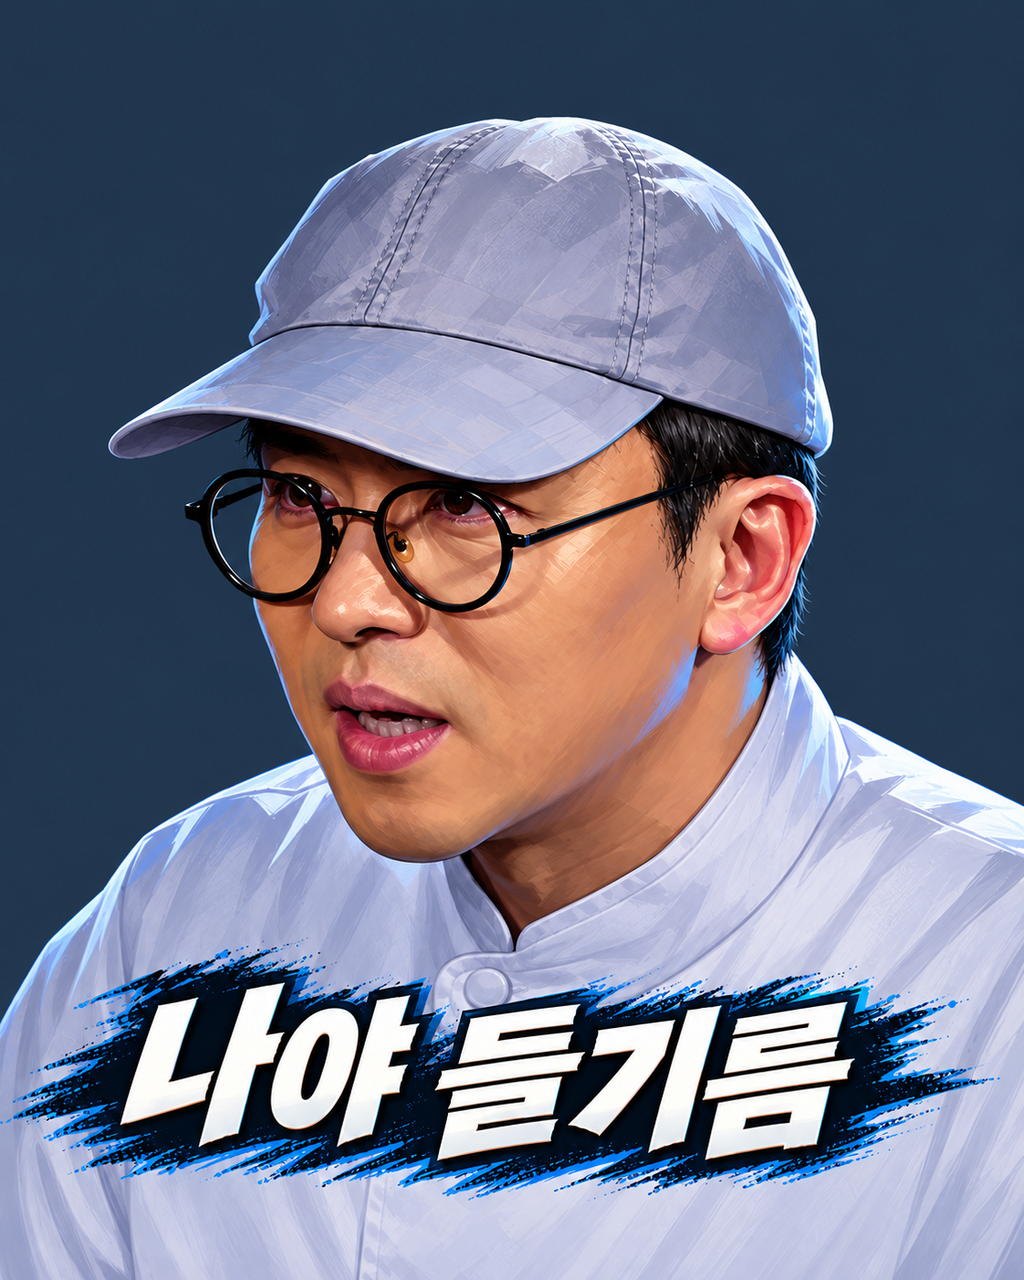
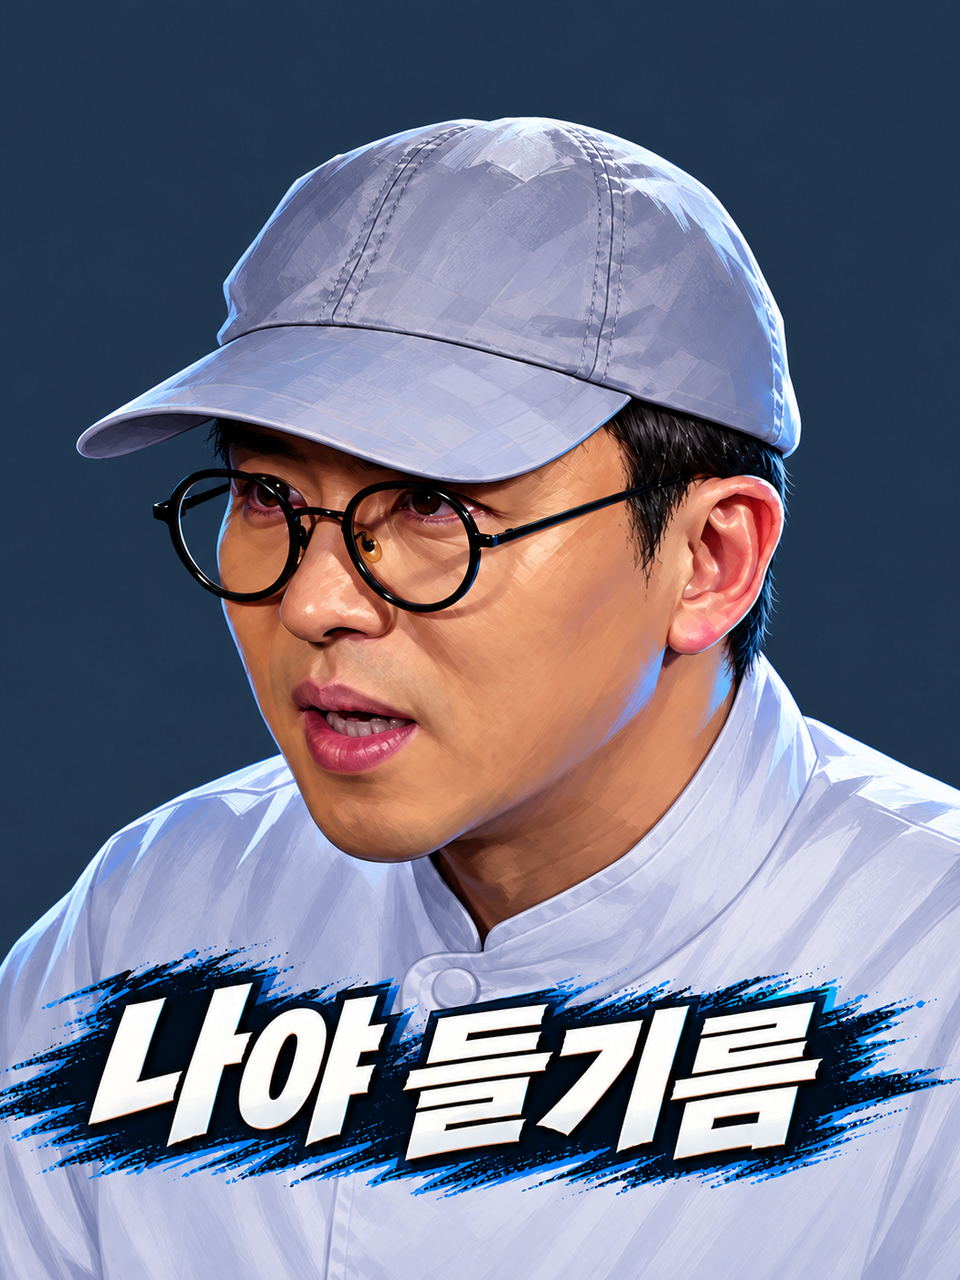
content(ghost): 스토리 일러스트 3:4로 교체 + 슬라이드 2장 중 1장 랜덤 표시
- 일러스트 6장을 3:4(960x1280) 버전으로 교체. CSS 기본 aspect-ratio도
  4:5 → 3:4로 맞춤. (3:4가 4:5보다 더 세로로 긴 비율이라 풀스크린
  레터박스 자체는 거의 안 줄었다 — 별도로 이미 얘기함)
- openGhostStoryModal이 두 슬라이드를 순서대로 다 보여주던 걸, 대결 신청
  시 둘 중 하나를 랜덤으로 골라 한 장만 보여주도록 변경. "다음/건너뛰기"
  두 버튼이 필요 없어져 "대결 시작" 버튼 하나로 정리.

Claude-Session: https://claude.ai/code/session_0111neQQwtSGPJWBP6K7ag1d

diff --git a/src/main.js b/src/main.js
@@ -7213,38 +7213,23 @@ function openGhostSelectModal() {
 }
 
 function openGhostStoryModal(profile) {
-  let slideIndex = 0;
-
-  const renderSlide = () => {
-    const slide = profile.story[slideIndex];
-    const isLast = slideIndex >= profile.story.length - 1;
-    // 대사가 이미지 안에 이미 박혀 있는 컷이라, 이미지가 있으면 캡션은
-    // 스크린리더용 alt로만 두고 화면에 텍스트로 중복 표시하지 않는다.
-    const media = slide.image
-      ? `<img src="${slide.image}" alt="${slide.caption}" class="ghost-story-image" />`
-      : `<p style="font-size:1.2rem;line-height:1.7;text-align:center;margin:0.5em 0">${slide.caption}</p>`;
-    openModal(`
-      <h2>${profile.name}</h2>
-      <article class="choice-card">
-        ${media}
-      </article>
-      <div class="mode-actions" style="margin-top:16px">
-        <button type="button" id="ghost-story-next" class="primary-action">${isLast ? "대결 시작" : "다음"}</button>
-        <button type="button" id="ghost-story-skip" class="primary-action secondary-action">건너뛰기</button>
-      </div>
-    `);
-    dom.modalContent.querySelector("#ghost-story-next").addEventListener("click", () => {
-      if (isLast) {
-        void startGhostDuel(profile);
-      } else {
-        slideIndex += 1;
-        renderSlide();
-      }
-    });
-    dom.modalContent.querySelector("#ghost-story-skip").addEventListener("click", () => void startGhostDuel(profile));
-  };
-
-  renderSlide();
+  // 슬라이드 두 장 중 하나를 매번 랜덤하게 골라 한 장만 보여준다.
+  const slide = profile.story[Math.floor(Math.random() * profile.story.length)];
+  // 대사가 이미지 안에 이미 박혀 있는 컷이라, 이미지가 있으면 캡션은
+  // 스크린리더용 alt로만 두고 화면에 텍스트로 중복 표시하지 않는다.
+  const media = slide.image
+    ? `<img src="${slide.image}" alt="${slide.caption}" class="ghost-story-image" />`
+    : `<p style="font-size:1.2rem;line-height:1.7;text-align:center;margin:0.5em 0">${slide.caption}</p>`;
+  openModal(`
+    <h2>${profile.name}</h2>
+    <article class="choice-card">
+      ${media}
+    </article>
+    <div class="mode-actions" style="margin-top:16px">
+      <button type="button" id="ghost-story-start" class="primary-action">대결 시작</button>
+    </div>
+  `);
+  dom.modalContent.querySelector("#ghost-story-start").addEventListener("click", () => void startGhostDuel(profile));
 }
 
 async function startGhostDuel(profile) {

diff --git a/styles.css b/styles.css
@@ -667,7 +667,7 @@ button {
 .ghost-story-image {
   display: block;
   width: min(320px, 100%);
-  aspect-ratio: 4 / 5;
+  aspect-ratio: 3 / 4;
   object-fit: cover;
   margin: 0 auto;
   border-radius: 8px;
